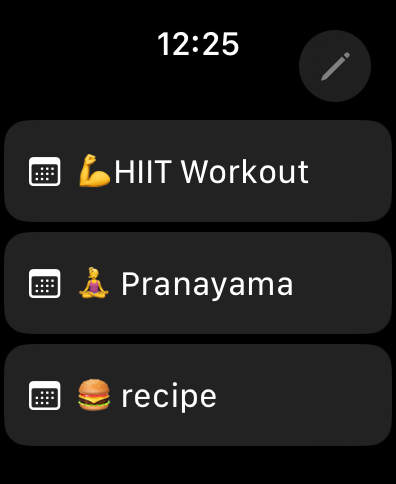
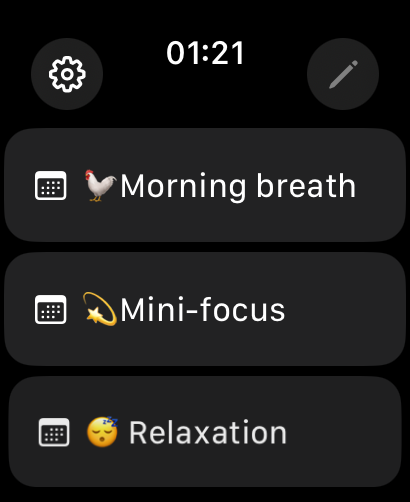
Add description and update screenshot

diff --git a/public_html/intervalflow/index.html b/public_html/intervalflow/index.html
@@ -1,20 +1,41 @@
 <!DOCTYPE html>
 <html>
   <head>
-    <meta charset="utf-8">
+    <meta http-equiv="content-type" content="text/html; charset=UTF-8">
     <title>Interval Flow for Watch OS</title>
     <meta name="viewport" content="width=device-width, initial-scale=1">
     <meta name="description" content="Interval Flow for Watch OS">
-    <link rel="stylesheet" href="style.css">
+    <link rel="stylesheet" href="style.css" type="text/css">
   </head>
   <body>
     <br/>
     <div style="display: flex; justify-content: center; align-items: center;">
-      <img src="favicon.png" style="width: 40px; padding-right: 5px; border-radius: 60px"/><h1 style="display: inline;">Interval Flow</h1>
+      <img src="favicon.png" alt="favicon for site" style="width: 40px; padding-right: 5px; border-radius: 60px"/><h1 style="display: inline;">Interval Flow</h1>
     </div>
     <div style="display: flex; justify-content: center; align-items: center;">
-      <img src="screenshot.png" style="width: 340px; padding-right: 5px; border-radius: 30px"/>
-      </div>
+      <img src="screenshot.png" alt="Screenshot of Interval Flow app" style="width: 340px; padding-right: 5px; border-radius: 30px"/>
+    </div>
+    <p>
+      Have you ever found yourself struggling to keep track of time when trying to transition smoothly between activities? Interval Flow is designed to solve precisely that problem and transform the way you manage your time with your Apple Watch.
+      </p>
+    <p>
+      Imagine effortlessly transitioning from one activity to another, whether it's your breathing exercises, your mindfulness rituals, or any other tasks you have in mind. With Interval Flow, you can easily set multiple timers that will ring one after the other, guiding you seamlessly through your activities.
+      </p>
+
+    <p>
+No more fumbling for your watch or constantly checking the time. Interval Flow ensures that your Apple Watch becomes a smart partner, helping you stay on track without any distractions. It's like having a personal timekeeper right on your wrist.
+
+    </p>
+    <p>
+But that's not all! Interval Flow goes above and beyond with its customizable programs feature. You can create multiple programs tailored to your specific needs and preferences (watchOS 10+).
+    </p>
+    <p>
+      With just a few taps on your Apple Watch, you can effortlessly switch between programs and enjoy a seamless flow of activities, staying focused and productive. It's like having your very own personal trainer and time management coach, all conveniently accessible from your wrist.
+      </p>
+
+    <p>
+    So, the question is, why settle for a standard timer when you can elevate your Apple Watch experience with Interval Flow? It's a game-changer for anyone who values their time and wants to make the most of every minute.
+    </p>
     <h2 id="privacy">Privacy policy</h2>
         No personal data is sent to any server, as there is no server component to this app. There are neither third party server integrations, accounts, analytics, advertising, nor hidden trackers in this app. All your data is kept on your iPhone, unless you choose a cloud provider to sync or store your data. See your cloud provider's privacy policy for details on how they may handle it.
         <br/>
